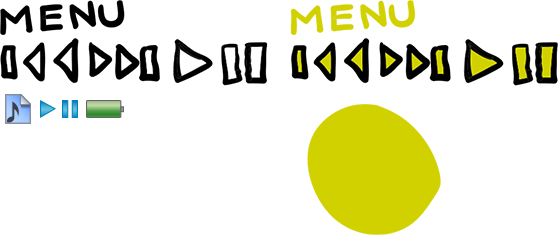
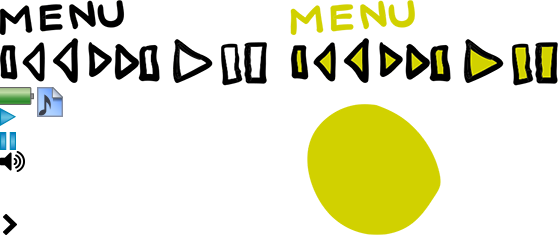
Add arrow to every list item

diff --git a/src/css/listitem.css b/src/css/listitem.css
@@ -4,6 +4,7 @@
 }
 
 .link {
+  position: relative;
   display: block;
   height: 20%;
   padding: 7px 12px;
@@ -11,6 +12,32 @@
   text-decoration: none;
   box-sizing: border-box;
   outline: none;
+}
+
+.link:after {
+  content: '';
+  width: 17px;
+  height: 14px;
+  display: inline-block;
+  position: absolute;
+  right: 0;
+  top: 50%;
+  margin-top: -7px;
+  margin-right: 5px;
+  background-position: 2px -128px;
+  background-image: url('../img/ipodjs-controls.png');
+  background-image: -webkit-image-set(
+    url('../img/ipodjs-controls.png') 1x,
+    url('../img/ipodjs-controls@1.5x.png') 1.5x,
+    url('../img/ipodjs-controls@2x.png') 2x,
+    url('../img/ipodjs-controls@2.5x.png') 2.5x
+  );
+  background-image: image-set(
+    url('../img/ipodjs-controls.png') 1x,
+    url('../img/ipodjs-controls@1.5x.png') 1.5x,
+    url('../img/ipodjs-controls@2x.png') 2x,
+    url('../img/ipodjs-controls@2.5x.png') 2.5x
+  );
 }
 
 .text-overflow {
